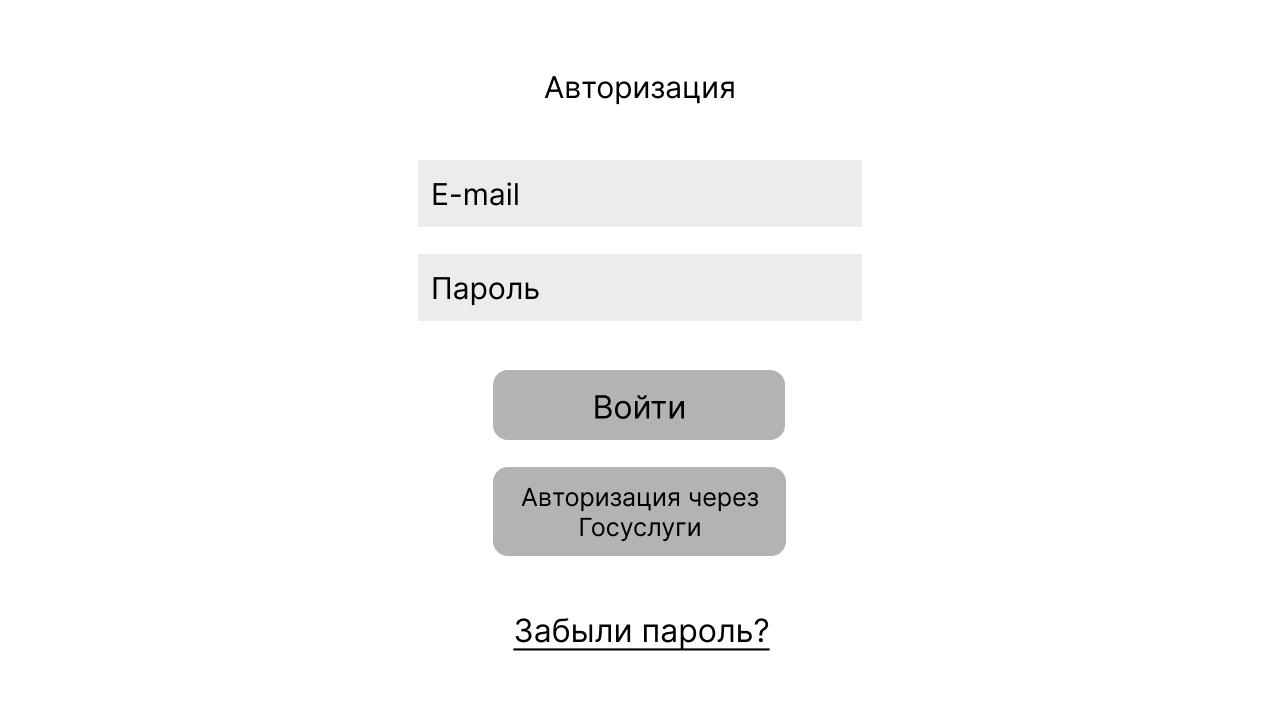
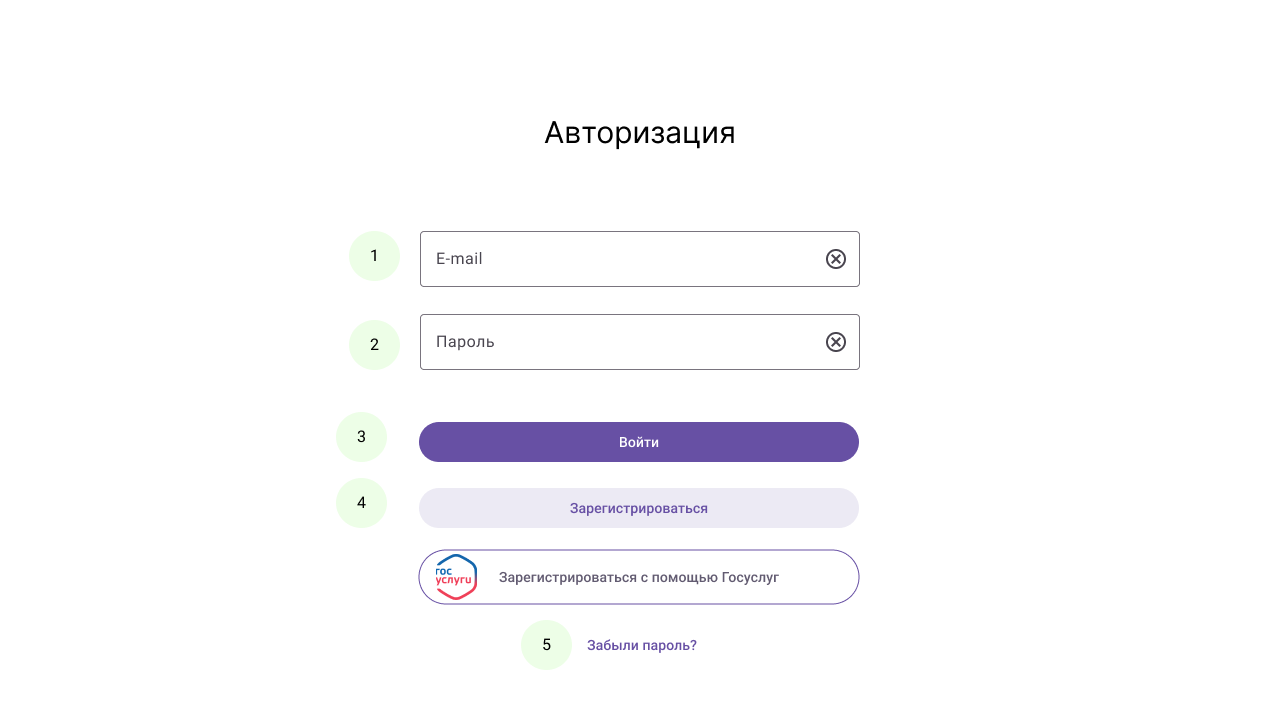
Вставил новые картинки

diff --git a/sprint-3/1-ui.md b/sprint-3/1-ui.md
@@ -1,9 +1,9 @@
 # 1. ОПИСАНИЕ ПОЛЬЗОВАТЕЛЬСКИХ ИНТЕРФЕЙСОВ
 *[В данном разделе необходимо спроектировать макеты основных экранных форм системы и описать имеющиеся на них структурные элементы интерфейса. Если это веб-приложение, обязательно предоставляется макет и описание главной страницы, а также основных страниц и форм сайта. Если это desktop-приложение, предоставляется макет и описание главного окна и прочих важных окон, карточек элементов.]* 
 
-## 1.1.	<Регистрация ученика>
+## 1.1.	Регистрация ученика
 
-![Рисунок 1 – Регистрация ученика](./Регистрация ученика.png)
+![Рисунок 1 – Регистрация ученика](./images/%D0%A0%D0%B5%D0%B3%D0%B8%D1%81%D1%82%D1%80%D0%B0%D1%86%D0%B8%D1%8F_%D1%83%D1%87%D0%B5%D0%BD%D0%B8%D0%BA%D0%B0.png)
 
 
 | № п/п | Наименование элемента | Тип элемента | Назначение элемента | Описание, комментарии, ограничения |
@@ -15,7 +15,9 @@
 | 5 | Зарегистрироваться с помощью Госуслуг | *Кнопка* | *По нажатию происходит переадресация на сайт Госуслуг для авторизации* | Пользователь должен быть зарегистрирован на сайте Госуслуг |
 | 6 | Войти | *Ссылка* | *По нажатию происходит переадресация на окно авторизации* |  |
 
-## 1.2.	<Регистрация работодателя>
+## 1.2.	Регистрация работодателя
+
+![Рисунок 2 – Регистрация работодателя](./images/%D0%A0%D0%B5%D0%B3%D0%B8%D1%81%D1%82%D1%80%D0%B0%D1%86%D0%B8%D1%8F_%D1%80%D0%B0%D0%B1%D0%BE%D1%82%D0%BE%D0%B4%D0%B0%D1%82%D0%B5%D0%BB%D1%8F.png)
 
 | № п/п | Наименование элемента | Тип элемента | Назначение элемента | Описание, комментарии, ограничения |
 |----|:----:|----|----|----|
@@ -27,7 +29,9 @@
 | 6 | Зарегистрироваться с помощью Госуслуг | *Кнопка* | *По нажатию происходит переадресация на сайт Госуслуг для авторизации* | Пользователь должен быть зарегистрирован на сайте Госуслуг |
 | 7 | Войти | *Ссылка* | *По нажатию происходит переадресация на окно авторизации* |  |
 
-## 1.3.	<Авторизация>
+## 1.3.	Авторизация
+
+![Рисунок 3 – Авторизация](./images/%D0%90%D0%B2%D1%82%D0%BE%D1%80%D0%B8%D0%B7%D0%B0%D1%86%D0%B8%D1%8F.png)
 
 | № п/п | Наименование элемента | Тип элемента | Назначение элемента | Описание, комментарии, ограничения |
 |----|:----:|----|----|----|
@@ -37,7 +41,9 @@
 | 4 | Авторизоваться через Госуслуги | *Кнопка* | *По нажатию происходит переадресация на сайт Госуслуг для авторизации* | Пользователь должен быть зарегистрирован на сайте Госуслуг |
 | 5 | Забыли пароль? | *Кнопка* | *По нажатию происходит переадресация на сайт для восстановления пароля* |  |
 
-## 1.4.	<Просмотр списка вакансий>
+## 1.4.	Просмотр списка вакансий
+
+![Рисунок 4 – Просмотр списка вакансий](./images/%D0%9F%D1%80%D0%BE%D1%81%D0%BC%D0%BE%D1%82%D1%80_%D1%81%D0%BF%D0%B8%D1%81%D0%BA%D0%B0_%D0%B2%D0%B0%D0%BA%D0%B0%D0%BD%D1%81%D0%B8%D0%B9.png)
 
 | № п/п | Наименование элемента | Тип элемента | Назначение элемента | Описание, комментарии, ограничения |
 |----|:----:|----|----|----|
@@ -51,7 +57,10 @@
 | 8 |Откликнуться | *Кнопка* | *По нажатию происходит отклик на вакнсию* | При отклике возможны два варианта продолжения: 1. Резюме подается работодателю, если теста нет 2.Происходит открытие с разделом тестирования от работодателя  |
 | 9 | Фильтр | *Кнопка* | *Раскрывает фильтры по  работе* |  |
 
-## 1.5.	<Просмотр созданных вакансий>
+## 1.5.	Просмотр созданных вакансий
+
+![Рисунок 5 – Просмотр созданных вакансий](./images/%D0%9F%D1%80%D0%BE%D1%81%D0%BC%D0%BE%D1%82%D1%80_%D1%81%D0%BE%D0%B7%D0%B4%D0%B0%D0%BD%D0%BD%D1%8B%D1%85_%D0%B2%D0%B0%D0%BA%D0%B0%D0%BD%D1%81%D0%B8%D0%B9.png)
+
 | № п/п | Наименование элемента | Тип элемента | Назначение элемента | Описание, комментарии, ограничения |
 |----|:----:|----|----|----|
 | 1 | Личный кабинет | *Кнопка* | *Открытие профиля пользователя* |  |
@@ -63,7 +72,10 @@
 | 7 |Вакансия | *Кнопка* | *По нажатию происходит открытие конкретной вакансии* |  |
 | 8 | Редактировать | *Кнопка* | *Открывает вакансию для редактирования* |  |
 
-## 1.6.	<Просмотр информации о вакансии>
+## 1.6.	Просмотр информации о вакансии
+
+![Рисунок 6 – Просмотр информации о вакансии](./images/%D0%9F%D1%80%D0%BE%D1%81%D0%BC%D0%BE%D1%82%D1%80_%D0%B8%D0%BD%D1%84%D0%BE%D1%80%D0%BC%D0%B0%D1%86%D0%B8%D0%B8_%D0%BE_%D0%B2%D0%B0%D0%BA%D0%B0%D0%BD%D1%81%D0%B8%D0%B8.png)
+
 | № п/п | Наименование элемента | Тип элемента | Назначение элемента | Описание, комментарии, ограничения |
 |----|:----:|----|----|----|
 | 1 | Откликнуться | *Кнопка* | *По нажатию происходит отклик на вакнсию* | При отклике возможны два варианта продолжения: 1. Резюме подается работодателю, если теста нет 2.Происходит открытие с разделом тестирования от работодателя  |
@@ -71,13 +83,19 @@
 | 3 | Назад | *Кнопка* | *По нажатию происходит возврат на предыдущую страницу* | |
 | 4 |Описание вакансии | *Текст* | *Текст с подробным описанием вакансии* |  |
 
-## 1.7.	<Просмотр информации о вакансии/отклик>
+## 1.7.	Просмотр информации о вакансии/отклик
+
+![Рисунок 7 – Просмотр информации о вакансии/отклик](./images/%D0%9F%D1%80%D0%BE%D1%81%D0%BC%D0%BE%D1%82%D1%80_%D0%B8%D0%BD%D1%84%D0%BE%D1%80%D0%BC%D0%B0%D1%86%D0%B8%D0%B8_%D0%BE_%D0%B2%D0%B0%D0%BA%D0%B0%D0%BD%D1%81%D0%B8%D0%B8-1.png)
+
 | № п/п | Наименование элемента | Тип элемента | Назначение элемента | Описание, комментарии, ограничения |
 |----|:----:|----|----|----|
-| 1 | Начать | *Кнопка* | *По нажатию происходит открытие тестирования* |  |
-| 2 | Вернуться к просмотру вакансии | *Кнопка* | *По нажатию происходит возврат на страницу с информацией о вакансии"* |  |
+| 1 | Вернуться к просмотру вакансии | *Кнопка* | *По нажатию происходит возврат на страницу с информацией о вакансии"* |  |
+| 2 | Начать | *Кнопка* | *По нажатию происходит открытие тестирования* |  |
 
-## 1.8.	<Создание вакансии>
+## 1.8.	Создание вакансии
+
+![Рисунок 8 – Создание вакансии](./images/%D0%A1%D0%BE%D0%B7%D0%B4%D0%B0%D0%BD%D0%B8%D0%B5_%D0%B2%D0%B0%D0%BA%D0%B0%D0%BD%D1%81%D0%B8%D0%B8.png.png)
+
 | № п/п | Наименование элемента | Тип элемента | Назначение элемента | Описание, комментарии, ограничения |
 |----|:----:|----|----|----|
 | 1 | Название должности | *Текстовое поле* | *Поле для вводе наименования вакансии* |  |
@@ -90,7 +108,10 @@
 | 8 | Создать вакансию | *Кнопка* | *По нажатию отправляется на проверку, далее размещается на сайте* |  |
 | 9 | Добавить/изменить тест | *Кнопка* | *По нажатию открывается шаблон теста* |  |
 
-## 1.9.	<Создание теста>
+## 1.9.	Создание теста
+
+![Рисунок 9 – Создание теста](./images/%D0%A1%D0%BE%D0%B7%D0%B4%D0%B0%D0%BD%D0%B8%D0%B5_%D1%82%D0%B5%D1%81%D1%82%D0%B0.png)
+
 Тестирование может содержать разные типы кнопок для ответов
 | № п/п | Наименование элемента | Тип элемента | Назначение элемента | Описание, комментарии, ограничения |
 |----|:----:|----|----|----|
@@ -109,7 +130,10 @@
 | 9 | Сохранить| *Кнопка* | *По нажатию происходит сохранение теста и переходу к разделу с тестами компании* | |
 
 
-## 1.10.	<Тест на вакансию>
+## 1.10. Тест на вакансию
+
+![Рисунок 10 – Тест на вакансию](./images/%D0%A2%D0%B5%D1%81%D1%82_%D0%BD%D0%B0_%D0%B2%D0%B0%D0%BA%D0%B0%D0%BD%D1%81%D0%B8%D1%8E.png)
+
 Тестирование может содержать разные типы кнопок для ответов
 | № п/п | Наименование элемента | Тип элемента | Назначение элемента | Описание, комментарии, ограничения |
 |----|:----:|----|----|----|
@@ -118,7 +142,10 @@
 | 3 | Вопрос| *Текстовое поле* | *Позволяет оставить ответ текстом* | |
 | 4 | Завершить тест| *Кнопка* | *По нажатию происходит переход на результаты теста* | |
 
-## 1.11.	<Результат теста на вакансию>
+## 1.11. Результат теста на вакансию
+
+![Рисунок 11 – Результат теста на вакансию](./images/%D0%A0%D0%B5%D0%B7%D1%83%D0%BB%D1%8C%D1%82%D0%B0%D1%82_%D1%82%D0%B5%D1%81%D1%82%D0%B0%20%D0%BD%D0%B0_%D0%B2%D0%B0%D0%BA%D0%B0%D0%BD%D1%81%D0%B8%D1%8E.png)
+
 Тестирование может содержать разные типы кнопок для ответов
 | № п/п | Наименование элемента | Тип элемента | Назначение элемента | Описание, комментарии, ограничения |
 |----|:----:|----|----|----|
@@ -128,9 +155,3 @@
 | 4 |Результаты тестов по вакансиям | *Кнопка* | *По нажатию происходит открытие раздела с результатами тестов на вакансии* |  |
 | 5 |Чат | *Кнопка* | *По нажатию происходит открытие раздела чата с работодателями* |  |
 | 6 |Реузльтат тестирования | *Текст* | *Предоставляются данные о прохождении теста* |  |
-
-
-
-
-
-
